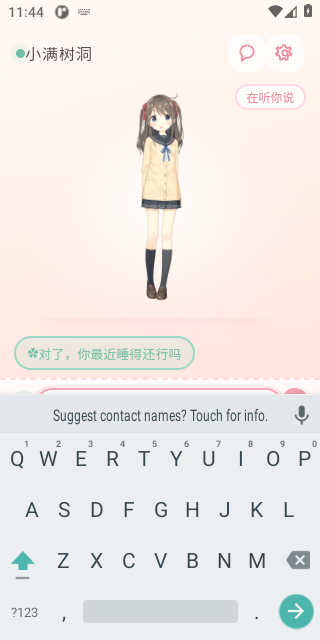
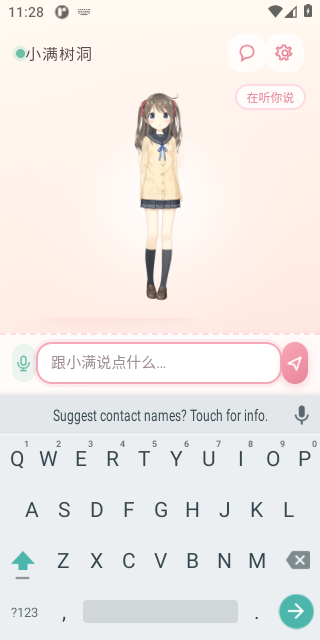
chore: v0.4分支CI回归截图入库 + CI软键盘遮挡修复(keyevent 111)

Changed region(s): [[0.0, 0.5, 1.0, 0.625], [0.4062, 0.125, 0.5938, 0.3438], [0.0938, 0.0, 0.1562, 0.0312]]

diff --git a/docs/DEVLOG.md b/docs/DEVLOG.md
@@ -4,6 +4,13 @@
 
 ---
 
+[2026-10-06 07:55] ✅ 多AI协同分支制落地（用户指令：另一AI协同开发，各自分支防冲突）：
+① 我的工作分支=`zhiqiu/dev`（已推送，从 v0.4 的 main 切出），后续提交全走此分支，不再直接动 main
+② workflow 触发放宽到 `zhiqiu/**`，分支首推即触发 CI
+③ v0.4 分支 CI 全绿（build-apk ✓ + emulator-smoke ✓，模拟器回归 PASS）——Live2D渲染/表情芯片/交互正常
+④ 顺手修 CI 截图：adb input text 弹软键盘遮挡对话区 → keyevent 111 收起（下轮回归验证）
+触及：.github/workflows/android-ci.yml；记忆同步登记分支规矩
+
 [2026-10-05 08:40] ✅ v0.4 三大生命线系统上线（用户定调：朋友定位+长期记忆+对话式提醒+心跳）：
 ① 提示词重构：小满=用户的朋友（去掉"树洞/倾听者"框架——过度限定失活人味），新增 HEARTBEAT_PROMPT（禁"在吗/好久不见"客服腔）+ buildSystemPrompt(记忆注入+时间注入)
 ② memory.js：localStorage 长期记忆库，2-gram 重叠滑窗检索（非重叠 match 会吞词——debug1h 的坑）+时间衰减+钉子户，双写兼容旧抽屉
